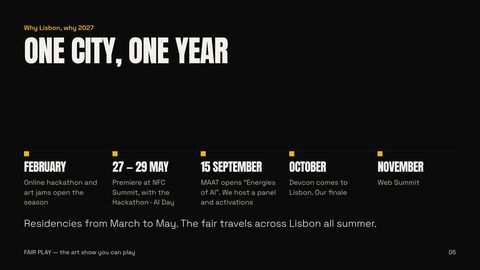
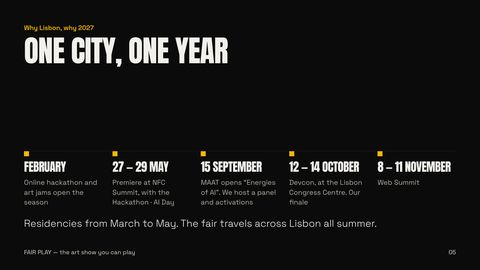
fair-play: official dates for Devcon IX and Web Summit 2027
Claude-Session: https://claude.ai/code/session_012tfmN2QmVZCt2jWmTr7UkS

Changed region(s): [[0.5938, 0.5926, 0.75, 0.7704], [0.7812, 0.5926, 0.9375, 0.6519]]

diff --git a/decks/fair-play/index.html b/decks/fair-play/index.html
@@ -126,12 +126,12 @@ section.paper .bar, section.paper2 .bar { background: var(--blue); }
 <section id="year" class="s " data-transition="fade">
 <div class="col g24 in"><p class="lab acc">Why Lisbon, why 2027</p><h2 class="t t120">One city, one year</h2></div>
 <div class="col g40">
-<div class="in2" style="display:grid;grid-template-columns:repeat(5, 1fr);column-gap:40px;border-top:2px solid var(--graphite);padding-top:0px"><div class="col g20"><div class="sq"></div><p class="t t48">February</p><p class="body mute">Online hackathon and art jams open the season</p></div><div class="col g20"><div class="sq"></div><p class="t t48">27 — 29 May</p><p class="body mute">Premiere at NFC Summit, with the Hackathon · AI Day</p></div><div class="col g20"><div class="sq"></div><p class="t t48">15 September</p><p class="body mute">MAAT opens “Energies of AI”. We host a panel and activations</p></div><div class="col g20"><div class="sq"></div><p class="t t48">October</p><p class="body mute">Devcon comes to Lisbon. Our finale</p></div><div class="col g20"><div class="sq"></div><p class="t t48">November</p><p class="body mute">Web Summit</p></div></div>
+<div class="in2" style="display:grid;grid-template-columns:repeat(5, 1fr);column-gap:40px;border-top:2px solid var(--graphite);padding-top:0px"><div class="col g20"><div class="sq"></div><p class="t t48">February</p><p class="body mute">Online hackathon and art jams open the season</p></div><div class="col g20"><div class="sq"></div><p class="t t48">27 — 29 May</p><p class="body mute">Premiere at NFC Summit, with the Hackathon · AI Day</p></div><div class="col g20"><div class="sq"></div><p class="t t48">15 September</p><p class="body mute">MAAT opens “Energies of AI”. We host a panel and activations</p></div><div class="col g20"><div class="sq"></div><p class="t t48">12 — 14 October</p><p class="body mute">Devcon, at the Lisbon Congress Centre. Our finale</p></div><div class="col g20"><div class="sq"></div><p class="t t48">8 — 11 November</p><p class="body mute">Web Summit</p></div></div>
 <p class="lead">Residencies from March to May. The fair travels across Lisbon all summer.</p>
 </div>
 <p class="foot">FAIR PLAY — the art show you can play</p>
 <p class="pg">05</p>
-<aside>One calendar for the city and for FAIR PLAY. February: an online hackathon and four art jams open the season; the best prototypes win a residency. March to May: residencies, eight to twelve projects built with the partner’s tools. 27 to 29 May: the fair opens on the central plaza of NFC Summit, at the Unicorn Factory, with the Hackathon · AI Day on site. Summer: the fair travels across Lisbon. 15 September: MAAT, the Museum of Art, Architecture and Technology, opens “Energies of AI”, curated by Antonio Somaini, with Hito Steyerl, Trevor Paglen, Kate Crawford and Vladan Joler; we host a panel and activations of our own that week. October: Devcon, and our finale. November: Web Summit.</aside>
+<aside>One calendar for the city and for FAIR PLAY. February: an online hackathon and four art jams open the season; the best prototypes win a residency. March to May: residencies, eight to twelve projects built with the partner’s tools. 27 to 29 May: the fair opens on the central plaza of NFC Summit, at the Unicorn Factory, with the Hackathon · AI Day on site. Summer: the fair travels across Lisbon. 15 September: MAAT, the Museum of Art, Architecture and Technology, opens “Energies of AI”, curated by Antonio Somaini, with Hito Steyerl, Trevor Paglen, Kate Crawford and Vladan Joler; we host a panel and activations of our own that week. 12 to 14 October: Devcon IX, at the Lisbon Congress Centre, and our finale that week. 8 to 11 November: Web Summit.</aside>
 </section>
 <section id="rule" class="s bottom" data-transition="fade" style="padding-bottom:110px">
 <img class="bg" src="../../media/videos-2026/art-factory-c.jpg" data-video="../../media/videos-2026/art-factory-c.mp4" alt="An artwork on a screen set into a flour mill machine in the Art Factory at NFC Summit 2026">

diff --git a/src/fp.py b/src/fp.py
@@ -23,9 +23,9 @@ timeline(d, 'year', 'Why Lisbon, why 2027', 'One city, one year', [
       ('February', 'Online hackathon and art jams open the season'),
       ('27 — 29 May', 'Premiere at NFC Summit, with the Hackathon · AI Day'),
       ('15 September', 'MAAT opens “Energies of AI”. We host a panel and activations'),
-      ('October', 'Devcon comes to Lisbon. Our finale'),
-      ('November', 'Web Summit')],
-      'One calendar for the city and for FAIR PLAY. February: an online hackathon and four art jams open the season; the best prototypes win a residency. March to May: residencies, eight to twelve projects built with the partner’s tools. 27 to 29 May: the fair opens on the central plaza of NFC Summit, at the Unicorn Factory, with the Hackathon · AI Day on site. Summer: the fair travels across Lisbon. 15 September: MAAT, the Museum of Art, Architecture and Technology, opens “Energies of AI”, curated by Antonio Somaini, with Hito Steyerl, Trevor Paglen, Kate Crawford and Vladan Joler; we host a panel and activations of our own that week. October: Devcon, and our finale. November: Web Summit.', 5,
+      ('12 — 14 October', 'Devcon, at the Lisbon Congress Centre. Our finale'),
+      ('8 — 11 November', 'Web Summit')],
+      'One calendar for the city and for FAIR PLAY. February: an online hackathon and four art jams open the season; the best prototypes win a residency. March to May: residencies, eight to twelve projects built with the partner’s tools. 27 to 29 May: the fair opens on the central plaza of NFC Summit, at the Unicorn Factory, with the Hackathon · AI Day on site. Summer: the fair travels across Lisbon. 15 September: MAAT, the Museum of Art, Architecture and Technology, opens “Energies of AI”, curated by Antonio Somaini, with Hito Steyerl, Trevor Paglen, Kate Crawford and Vladan Joler; we host a panel and activations of our own that week. 12 to 14 October: Devcon IX, at the Lisbon Congress Centre, and our finale that week. 8 to 11 November: Web Summit.', 5,
       line='Residencies from March to May. The fair travels across Lisbon all summer.')
 pause_video(d, 'rule', VID('art-factory-c'), 'The rule', 'Everyone leaves<br>with art.',
       'You always pay for an artwork, never for a chance. Every play gives a print. The target score gives an edition. The best score of the day takes the 1/1.', 'An artwork on a screen set into a flour mill machine in the Art Factory at NFC Summit 2026')
